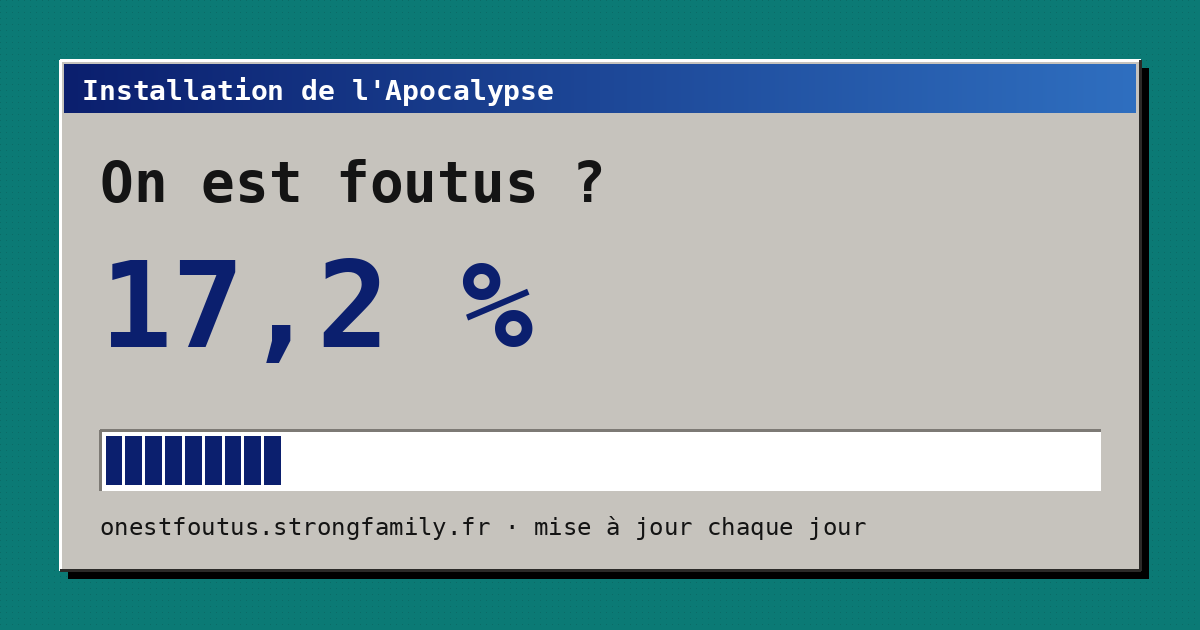
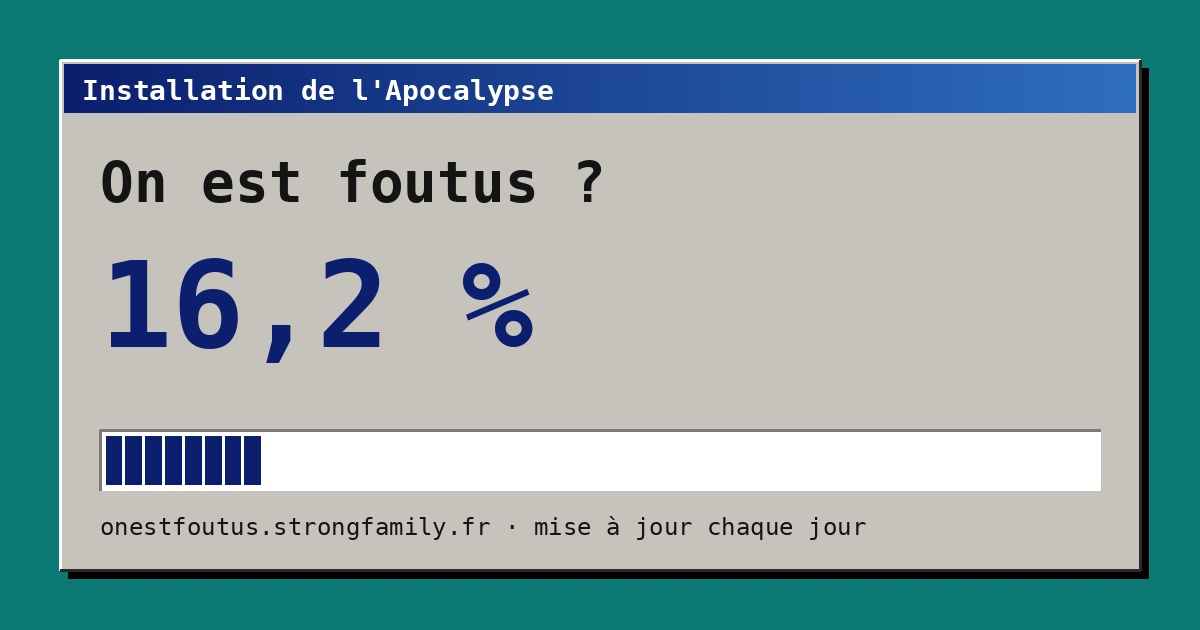
Journal remis à zéro au lancement : une entrée par jour à partir du 21/10
Claude-Session: https://claude.ai/code/session_01FCjz7BWufu6hxFKAu3yMLh

Changed region(s): [[0.1233, 0.3921, 0.2158, 0.573], [0.2158, 0.6937, 0.2467, 0.7841]]

diff --git a/index.html b/index.html
@@ -151,7 +151,7 @@ footer a{color:#fff}
 
       <div class="sunk progress" id="progress" role="progressbar" aria-valuemin="0" aria-valuemax="100" aria-label="Probabilité d'apocalypse IA"></div>
       <div class="filelog" id="filelog">Copie de skynet.dll…</div>
-      <p class="small muted">Temps restant estimé : entre 4 ans et jamais. Point de départ le 31 août 2026 : 15 %, à peu près le milieu des estimations publiques des experts. Depuis, la barre monte ou descend avec chaque nouvelle.</p>
+      <p class="small muted">Temps restant estimé : entre 4 ans et jamais. Point de départ le 20 octobre 2026 : 15 %, à peu près le milieu des estimations publiques des experts. Depuis, la barre monte ou descend chaque jour avec l'actualité.</p>
 
       <div class="row">
         <span class="spacer"></span>
@@ -177,7 +177,7 @@ footer a{color:#fff}
     <div class="bar"><span>historique.dat</span><span class="tb" aria-hidden="true">×</span></div>
     <div class="body">
       <h2 id="h2d">La courbe depuis le début</h2>
-      <div class="sunk chartbox" id="chart" role="img" aria-label="Évolution du pourcentage depuis le 31 août 2026"></div>
+      <div class="sunk chartbox" id="chart" role="img" aria-label="Évolution du pourcentage depuis le 20 octobre 2026"></div>
     </div>
   </section>
 
